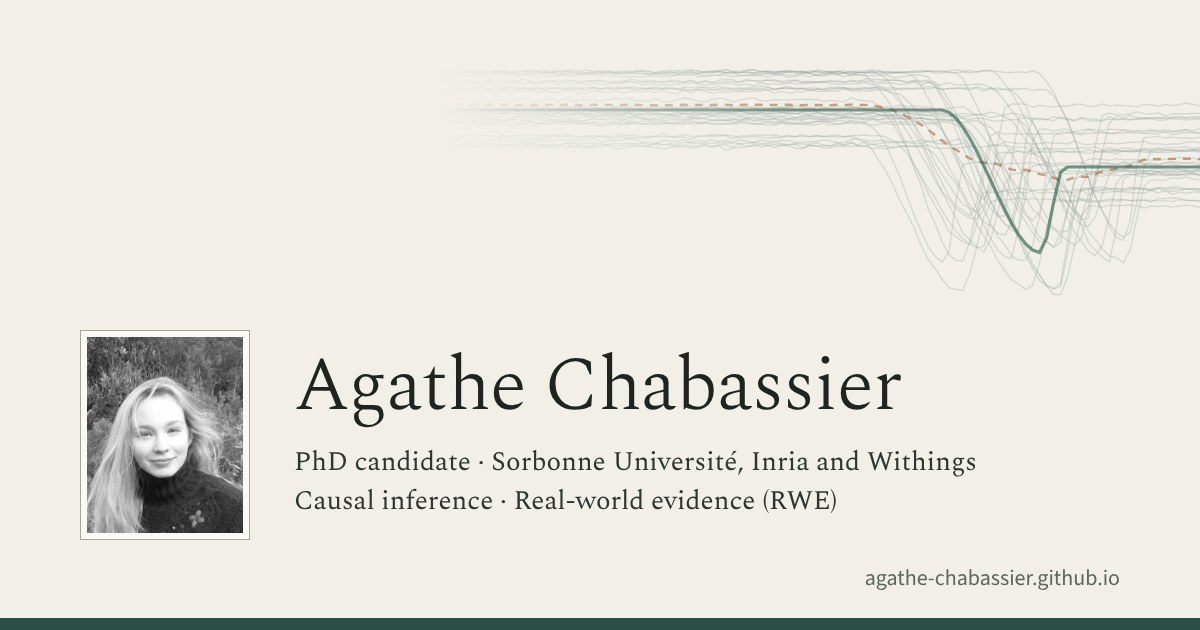
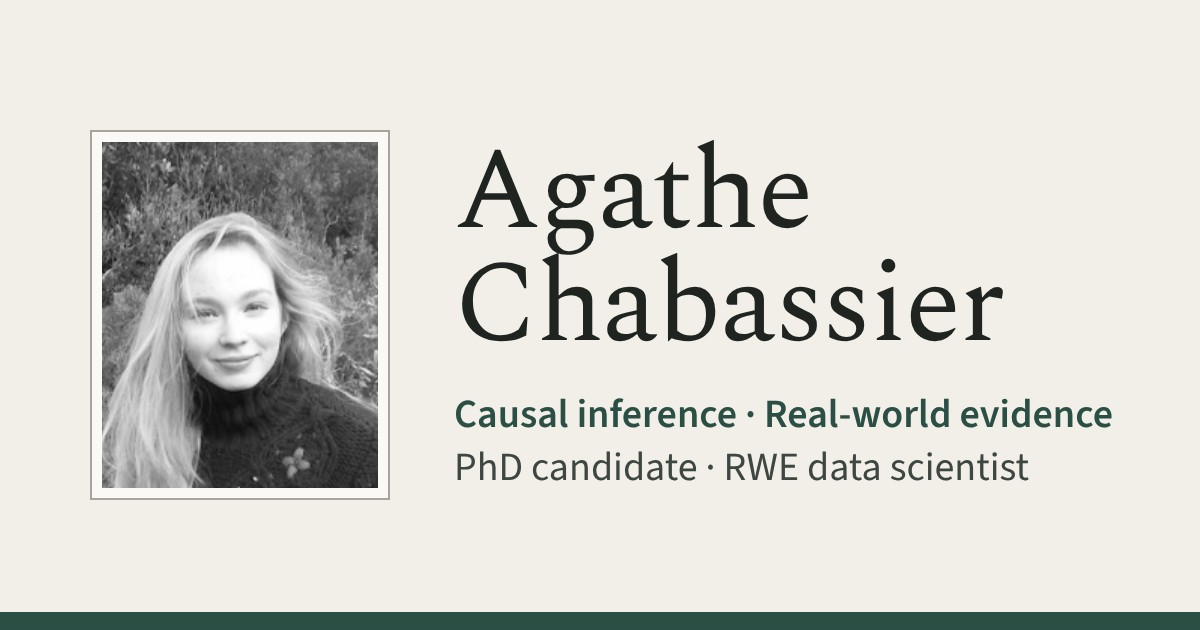
Add files via upload

Changed region(s): [[0.0617, 0.0905, 1.0, 0.8746], [0.0, 0.9651, 1.0, 0.9952], [0.7092, 0.9048, 0.925, 0.9349]]

diff --git a/index.html b/index.html
@@ -209,7 +209,7 @@ a:focus-visible { outline: 2px solid var(--forest); outline-offset: 3px; border-
   -webkit-mask-image: linear-gradient(90deg, transparent 0%, #000 45%); mask-image: linear-gradient(90deg, transparent 0%, #000 45%); }
 .tf-bg { fill: none; stroke: #93A09A; stroke-opacity: .24; stroke-width: 1.1; vector-effect: non-scaling-stroke; }
 .tf-pointwise { fill: none; stroke: var(--clay); stroke-opacity: .48; stroke-width: 2; stroke-dasharray: 7 6; vector-effect: non-scaling-stroke; }
-.tf-elastic { fill: none; stroke: #3F6B5C; stroke-opacity: .6; stroke-width: 2.6; stroke-linecap: round; vector-effect: non-scaling-stroke; }
+.tf-elastic { fill: none; stroke: #5E655F; stroke-opacity: .62; stroke-width: 2.6; stroke-linecap: round; vector-effect: non-scaling-stroke; }
 .head > * { position: relative; z-index: 1; }
 .hr-cap { position: absolute; right: 40px; bottom: 10px; font-size: max(12px, .7rem); color: var(--muted); opacity: .65; font-style: italic; z-index: 1; }
 .hr-cap i { display: inline-block; width: 18px; vertical-align: middle; margin: 0 5px 0 12px; }
@@ -269,7 +269,7 @@ a:focus-visible { outline: 2px solid var(--forest); outline-offset: 3px; border-
     </div>
     <div class="lk sans"><a class="js-email" href="mailto:agathe.chabassier**no_spam**at**withings.com" title="Email" aria-label="Email"><svg class="env" viewBox="0 0 24 24" aria-hidden="true"><rect x="3" y="5.5" width="18" height="13" rx="2"/><path d="M3.8 7l8.2 6 8.2-6"/></svg></a><a href="CV_Chabassier_Agathe.pdf">CV (PDF)</a><a href="https://orcid.org/0009-0006-5951-9589">ORCID</a><a href="https://www.linkedin.com/in/agathe-chabassier/">LinkedIn</a><a href="https://github.com/agathe-chabassier">GitHub</a></div>
   </div>
-  <div class="hr-cap sans" aria-hidden="true">Simulated wearables trajectories<i style="border-top:2.5px solid rgba(63,107,92,.6)"></i>elastic mean<i style="border-top:2px dashed rgba(166,89,47,.5)"></i>pointwise mean</div>
+  <div class="hr-cap sans" aria-hidden="true">Simulated wearables trajectories<i style="border-top:2.5px solid rgba(94,101,95,.62)"></i>elastic mean<i style="border-top:2px dashed rgba(166,89,47,.5)"></i>pointwise mean</div>
 </header>
 <main class="page">
 <section class="sec" id="about"><h2>About</h2><div class="b"><p class=lead>I am a PhD candidate designing and applying causal inference methods to generate robust real-world evidence (RWE) from connected-device data – long, dense series of measurements, irregularly spaced and recorded by users themselves over years. My PhD is supervised by <a href="https://juliejosse.com/">Julie Josse</a>, <a href="https://erwanscornet.github.io/">Erwan Scornet</a> and <a href="https://www.linkedin.com/in/pierrebinon/">Pierre Binon</a>, with Sorbonne Université (LPSM), Inria (PreMeDICaL team) and Withings.</p><p>My research estimates the causal effect of an intervention on biomarker trajectories over time – capturing real-life dynamics such as rebound or yo-yo effects. My latest methodological work, <a href="https://arxiv.org/abs/2610.35180">Shape-preserving treatment effects for functional outcomes</a>, is available on arXiv. At Withings, I also supervise applications of these methods to wearable data, medical claims and questionnaires.</p><p>My RWE work began at <a href="https://curie.fr/">Institut Curie</a>, where I performed causal inference analyses on the French National Health Data System (<a href="https://www.snds.gouv.fr/">SNDS</a>) and clinical questionnaire data, applying target trial emulation, survival analysis and propensity score methods.</p><p>Trained in mathematics, statistics and machine learning (<a href="https://www.master-mva.com/">MVA programme</a> at <a href="https://ens-paris-saclay.fr/en">ENS Paris-Saclay</a> and engineering degree from <a href="https://www.minesparis.psl.eu/en/">Mines Paris – PSL</a>), I have applied data science across medical imaging, genomics, epidemiology and computational neuroscience.</p><p class="interests sans"><b>Research interests</b>causal inference · emulated target trials · elastic shape analysis · functional and longitudinal data · real-world evidence · digital health</p><div class="fig"><h3>Why trajectory shape matters</h3><svg class="fig-svg" viewBox="-24 0 664 206" role="img" aria-labelledby="fig-title">
